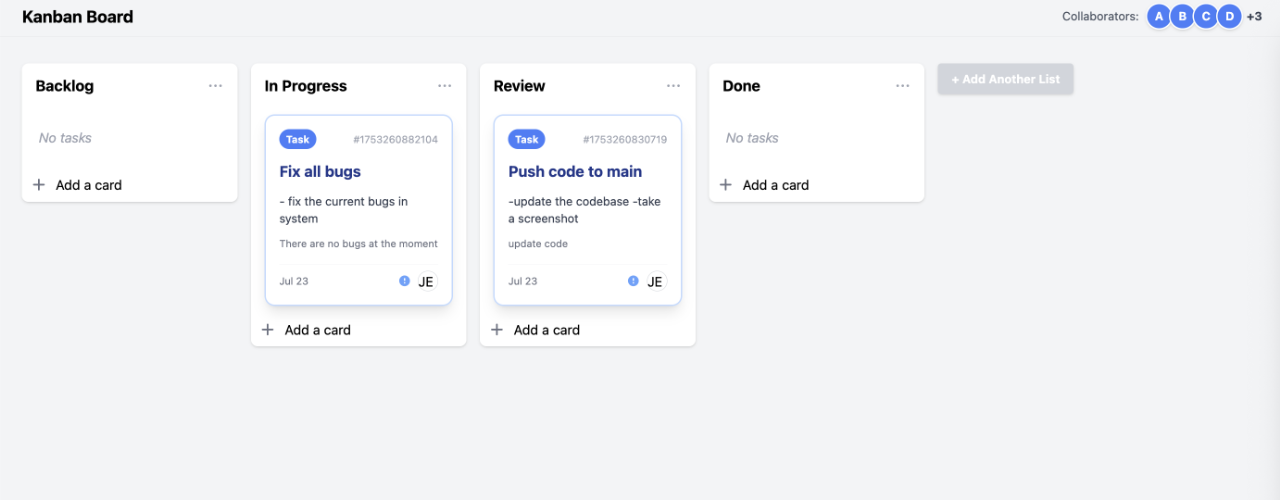
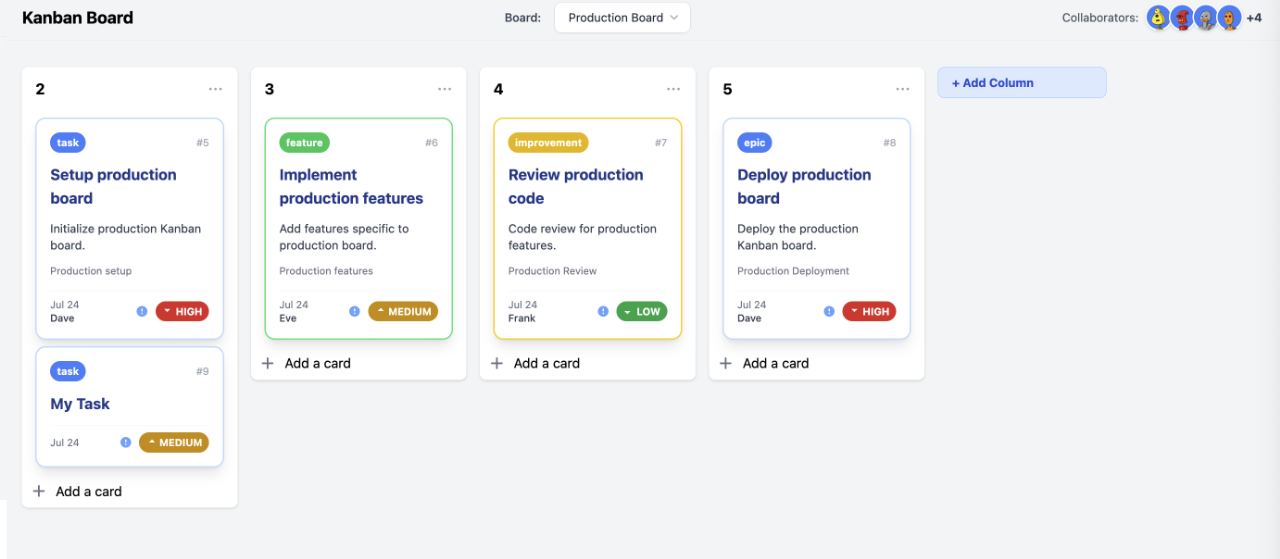
feat: Update README to reflect multi-board support and improve type safety

diff --git a/README.md b/README.md
@@ -11,15 +11,20 @@ Astro Kanban Board is a modern, collaborative Kanban board built with Astro, Vue
 
 ## Features
 
-- Drag-and-drop tasks and columns
+- **Multiple Kanban boards** with a board selector
+- Drag-and-drop tasks and columns (per board)
 - Customizable task types and priorities
 - Collaborator avatars
 - Responsive design
 - Easy to extend and maintain
 
-## Screenshot
+## What's New
 
-![Kanban Board Screenshot](./screenshot.png)
+- Multi-board support: Create and manage multiple Kanban boards
+- Board selector in the navbar for switching between boards
+- Tasks and columns are always separated by board
+- Drag-and-drop and add column/task features are board-aware
+- Improved type safety and backend validation
 
 ## Getting Started
 
